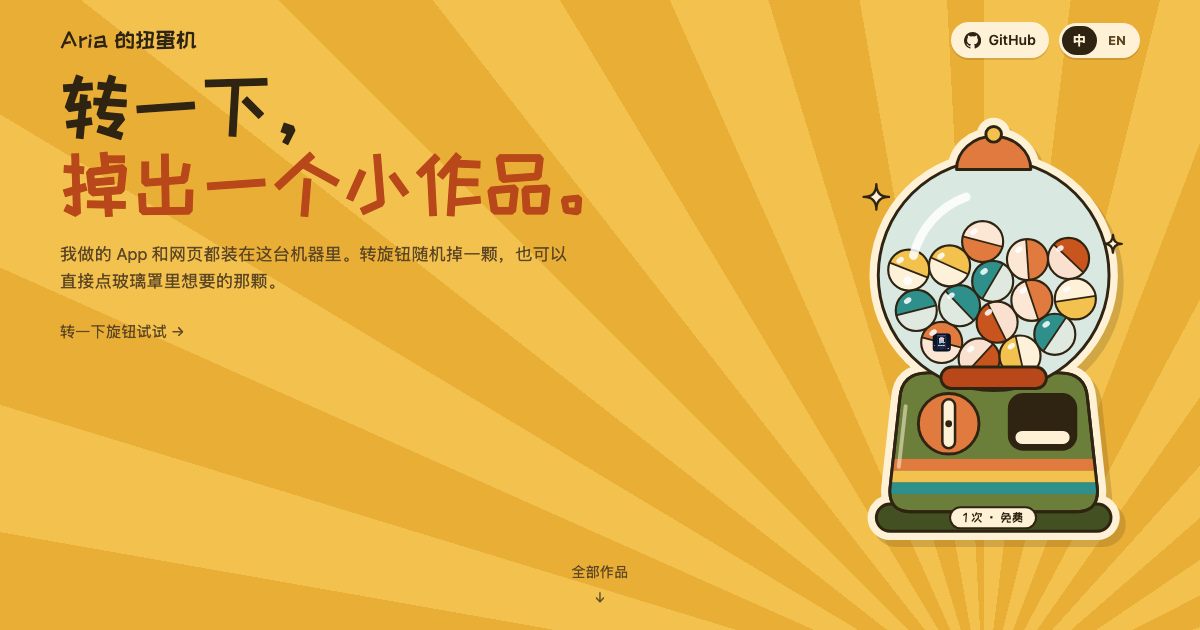
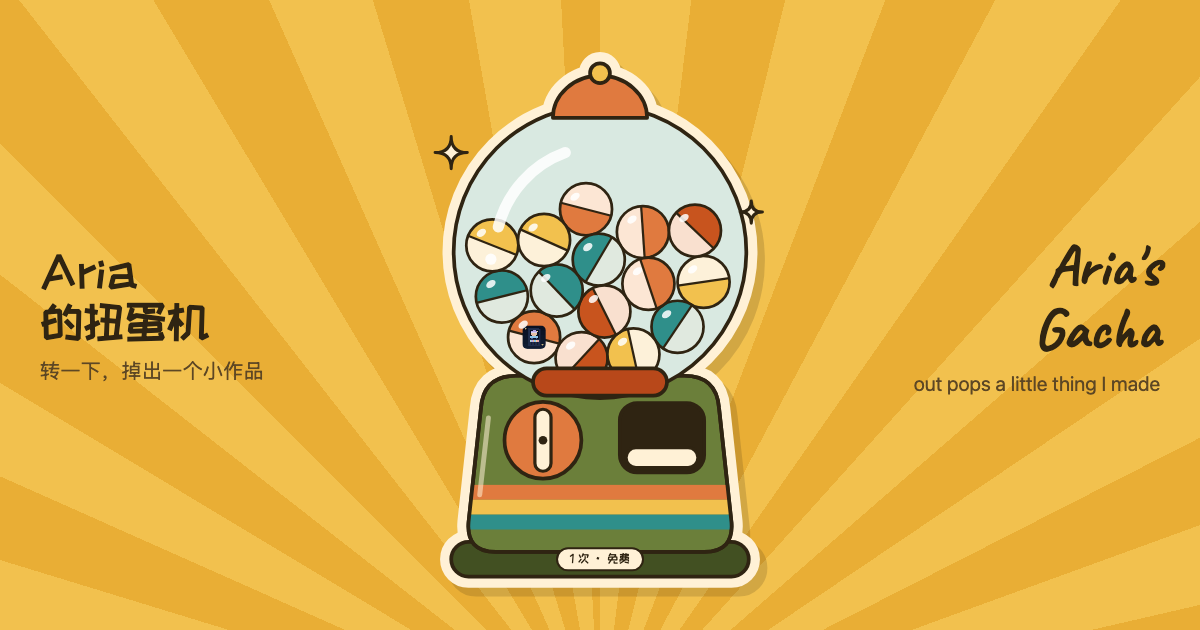
fix: 分享图改为扭蛋机居中，平台裁成正方形时也完整

diff --git a/index.html b/index.html
@@ -12,7 +12,7 @@
 <meta property="og:url" content="https://ccccjone.github.io/cc-apps/">
 <meta property="og:title" content="Aria 的扭蛋机 · Aria's Gacha">
 <meta property="og:description" content="转一下，掉出一个小作品。Give it a spin, out pops a little thing I made.">
-<meta property="og:image" content="https://ccccjone.github.io/cc-apps/og.png">
+<meta property="og:image" content="https://ccccjone.github.io/cc-apps/og.png?v=2">
 <meta name="twitter:card" content="summary_large_image">
 <script>document.documentElement.classList.add('js')</script>
 <style>
